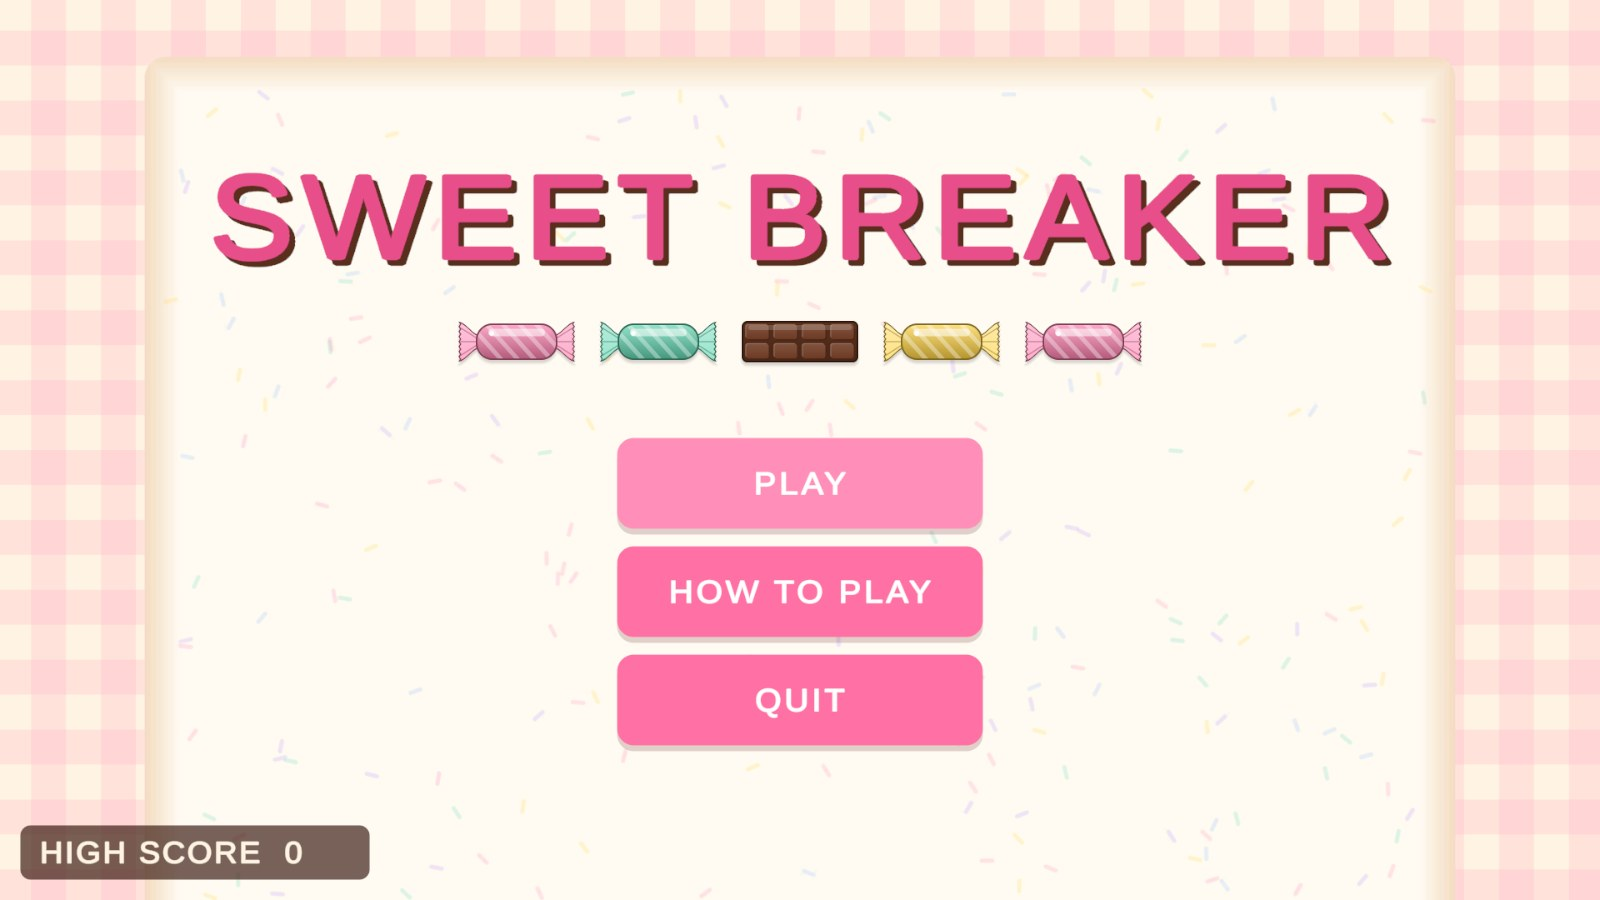
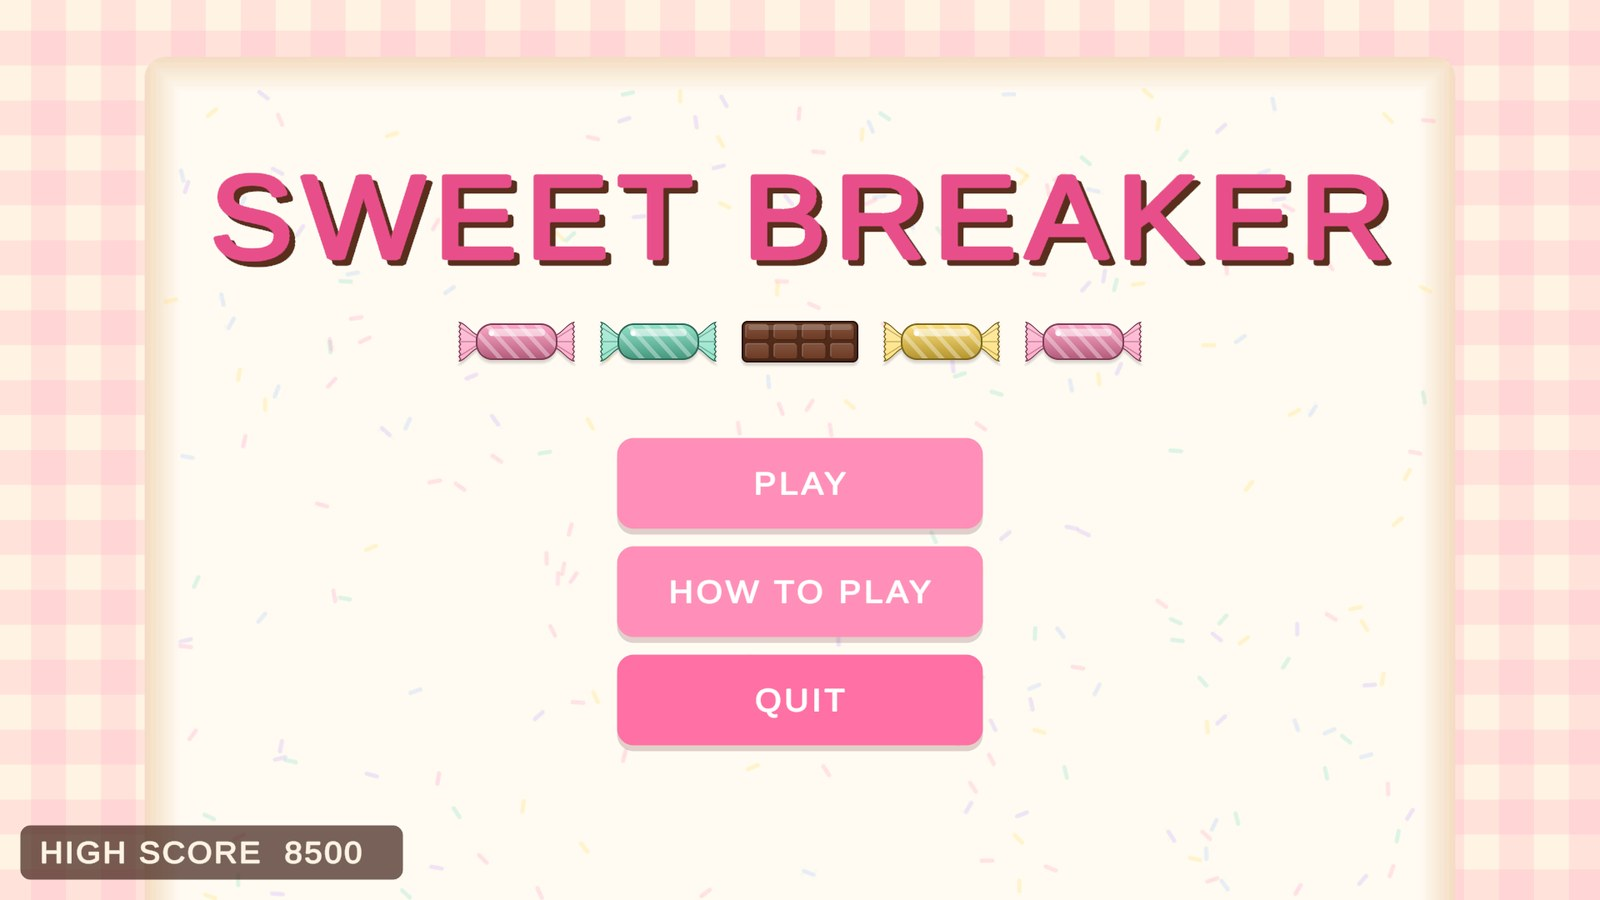
Widen the main menu's high-score plate so four digits fit
"HIGH SCORE  1000" and up measured 386 px against a 372 px text box, so
the score wrapped onto a second line and spilled out of the plate. The
plate goes from 420 to 460 px wide (text box 412 px) and the text no
longer wraps. The layouts cap a run at 8500, so every possible score
fits. Checked at 16:9, 16:10, 4:3 and 21:9. The README screenshot is
retaken to show the wider plate. An audit of every other runtime text
in both scenes found nothing else that clips.

Changed region(s): [[0.375, 0.5911, 0.625, 0.7156], [0.1875, 0.9022, 0.25, 0.9956]]

diff --git a/Docs/SWEETBREAKER_GDD.md b/Docs/SWEETBREAKER_GDD.md
@@ -549,7 +549,7 @@ and Addressables or any asset-streaming system (there are three level prefabs).
 | v0.6 | 2026-09-25 | Implementation recorded. Every MVP and polish item in §8 is built except the real Windows-build check. Render pipeline settled as URP 2D. The camera-fit formula in §5 now shows the shake margin that §1 and §6 already assumed, and the background is 26 × 14 u to cover it. §6's asset table records the actual sources: all art and sound is our own, and the only third-party asset is TextMesh Pro's Liberation Sans (SIL OFL 1.1); the menu music is cut. §7's table moves the expansion timer from the capsule to the paddle, since the capsule is destroyed when caught, and lists `MainMenuUI` and `Shard`. No gameplay rule changes. |
 | v0.7 | 2026-09-26 | Art pass. The sprites are redrawn to match the visual direction in this section (wrapped candies, 4 × 2 chocolate bars with a clearly broken cracked state, a gingham counter with a sprinkled tray) by an editor tool, `SpriteArtGenerator`, so their origin is in the repository. Recorded the drop-shadow margins and the Global Light 2D rule in the technical art rules. No gameplay rule changes. |
 | v0.8 | 2026-09-26 | Tuning after our own first playtest, where the paddle was too fast to control: `paddleSpeed` goes from 18 to 12 u/s, and a new `paddleAccelerationTime` (0.12 s) ramps the keyboard up to it. The same playtest found a ball stuck to the side of a moving paddle and squeezed up the wall; §3's paddle rebound now says what a side hit does (the ball glances off and is missed), which the rule had left open. Scoring, lives, levels and the power-up are unchanged. |
-| v0.9 | 2026-09-26 | Second playtest: the keys were still very fast while the mouse felt right. The mouse moves at the hand's pace with `paddleSpeed` only as its cap, but a held key always runs at full speed, so the keyboard now has its own speed: a new `paddleKeyboardSpeed` of 9 u/s, with `paddleAccelerationTime` going from 0.12 to 0.15 s, while `paddleSpeed` stays 12 u/s for the mouse. §3 states the trade-off. Scoring, lives, levels and the power-up are unchanged. |
+| v0.9 | 2026-09-26 | Second playtest: the keys were still very fast while the mouse felt right. The mouse moves at the hand's pace with `paddleSpeed` only as its cap, but a held key always runs at full speed, so the keyboard now has its own speed: a new `paddleKeyboardSpeed` of 9 u/s, with `paddleAccelerationTime` going from 0.12 to 0.15 s, while `paddleSpeed` stays 12 u/s for the mouse. §3 states the trade-off. The main menu's high-score plate is widened from 420 to 460 px: any score of 1000 or more wrapped onto a second line, and the plate now fits the maximum possible score of 8500. Scoring, lives, levels and the power-up are unchanged. |
 
 ---
 
